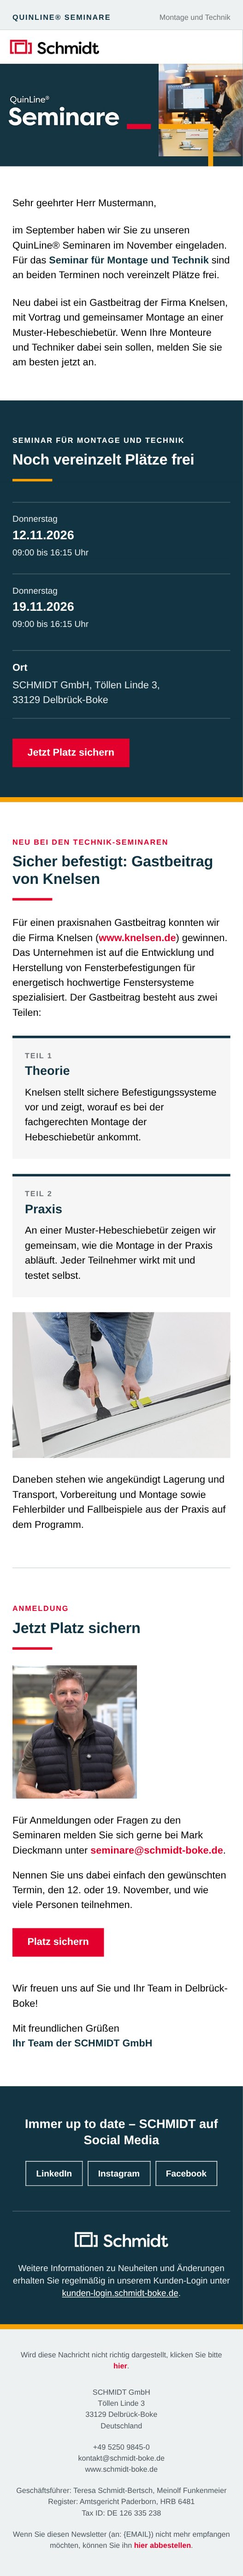
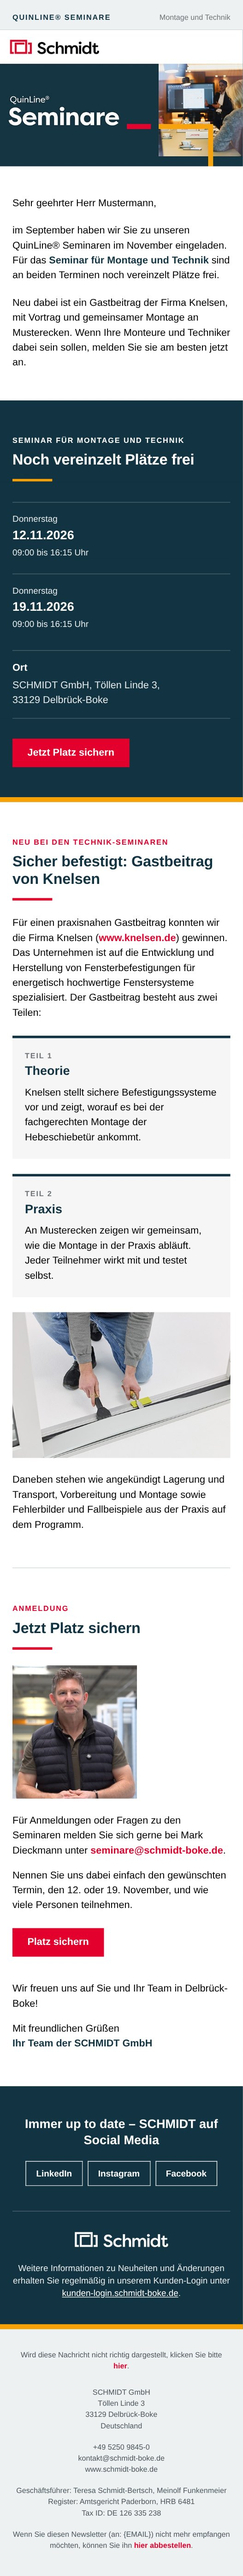
Newsletter Restplätze Seminar: Praxisteil an Musterecken statt Muster-Hebeschiebetür
Claude-Session: https://claude.ai/code/session_01VKPZfVgBXYvpnS8mXiiVA7

diff --git a/projects/newsletter-seminare-restplaetze/renders/cleverreach/newsletter-seminare-restplaetze-cleverreach.html b/projects/newsletter-seminare-restplaetze/renders/cleverreach/newsletter-seminare-restplaetze-cleverreach.html
@@ -76,7 +76,7 @@
 <tr><td class="px hy" lang="de" bgcolor="#ffffff" style="padding:0 48px; background:#ffffff; font-family:Arial,Helvetica,sans-serif; font-size:16px; line-height:24px; mso-line-height-rule:exactly; color:#000000;"><!--#html #-->
 <p style="margin:0 0 20px 0; font-family:Arial,Helvetica,sans-serif; font-size:16px; line-height:24px; mso-line-height-rule:exactly; color:#000000;">{SALUTATION[std:Sehr geehrte Damen und Herren][salutation:formal|de]} {LASTNAME},</p>
 <p style="margin:0 0 20px 0; font-family:Arial,Helvetica,sans-serif; font-size:16px; line-height:24px; mso-line-height-rule:exactly; color:#000000;">im September haben wir Sie zu unseren QuinLine® Seminaren im November eingeladen. Für das <strong style="color:#123442;">Seminar für Montage und Technik</strong> sind an beiden Terminen noch vereinzelt Plätze frei.</p>
-<p style="margin:0 0 0px 0; font-family:Arial,Helvetica,sans-serif; font-size:16px; line-height:24px; mso-line-height-rule:exactly; color:#000000;">Neu dabei ist ein Gastbeitrag der Firma Knelsen, mit Vortrag und gemeinsamer Montage an einer Muster-Hebeschiebetür. Wenn Ihre Monteure und Techniker dabei sein sollen, melden Sie sie am besten jetzt an.</p>
+<p style="margin:0 0 0px 0; font-family:Arial,Helvetica,sans-serif; font-size:16px; line-height:24px; mso-line-height-rule:exactly; color:#000000;">Neu dabei ist ein Gastbeitrag der Firma Knelsen, mit Vortrag und gemeinsamer Montage an Musterecken. Wenn Ihre Monteure und Techniker dabei sein sollen, melden Sie sie am besten jetzt an.</p>
 <!--#/html#--></td></tr>
 <tr><td height="48" bgcolor="#ffffff" style="padding:0; height:48px; background:#ffffff; font-size:1px; line-height:1px; mso-line-height-rule:exactly;">&nbsp;</td></tr>
 </table>
@@ -139,7 +139,7 @@
 <td class="stack" width="240" valign="top" bgcolor="#f6f6f6" style="padding:20px 20px 22px 20px; background:#f6f6f6; border-top:4px solid #123442; font-family:Arial,Helvetica,sans-serif; font-size:16px; line-height:24px; mso-line-height-rule:exactly; color:#000000;"><!--#html #-->
 <p style="margin:0 0 4px 0; font-family:Arial,Helvetica,sans-serif; font-size:12px; line-height:16px; mso-line-height-rule:exactly; color:#6e7478; font-weight:700; letter-spacing:1.4px; text-transform:uppercase;">Teil 2</p>
 <p style="margin:0 0 10px 0; font-family:Arial,Helvetica,sans-serif; font-size:20px; line-height:26px; mso-line-height-rule:exactly; color:#123442; font-weight:700;">Praxis</p>
-<p style="margin:0 0 0px 0; font-family:Arial,Helvetica,sans-serif; font-size:16px; line-height:24px; mso-line-height-rule:exactly; color:#000000;">An einer Muster-Hebeschiebetür zeigen wir gemeinsam, wie die Montage in der Praxis abläuft. Jeder Teilnehmer wirkt mit und testet selbst.</p>
+<p style="margin:0 0 0px 0; font-family:Arial,Helvetica,sans-serif; font-size:16px; line-height:24px; mso-line-height-rule:exactly; color:#000000;">An Musterecken zeigen wir gemeinsam, wie die Montage in der Praxis abläuft. Jeder Teilnehmer wirkt mit und testet selbst.</p>
 <!--#/html#--></td>
 </tr></table></td></tr>
 <tr><td height="24" bgcolor="#ffffff" style="padding:0; height:24px; background:#ffffff; font-size:1px; line-height:1px; mso-line-height-rule:exactly;">&nbsp;</td></tr>

diff --git a/projects/newsletter-seminare-restplaetze/renders/newsletter-seminare-restplaetze.html b/projects/newsletter-seminare-restplaetze/renders/newsletter-seminare-restplaetze.html
@@ -75,7 +75,7 @@
 <tr><td class="px hy" lang="de" bgcolor="#ffffff" style="padding:0 48px; background:#ffffff; font-family:Arial,Helvetica,sans-serif; font-size:16px; line-height:24px; mso-line-height-rule:exactly; color:#000000;">
 <p style="margin:0 0 20px 0; font-family:Arial,Helvetica,sans-serif; font-size:16px; line-height:24px; mso-line-height-rule:exactly; color:#000000;">{SALUTATION[std:Sehr geehrte Damen und Herren][salutation:formal|de]} {LASTNAME},</p>
 <p style="margin:0 0 20px 0; font-family:Arial,Helvetica,sans-serif; font-size:16px; line-height:24px; mso-line-height-rule:exactly; color:#000000;">im September haben wir Sie zu unseren QuinLine® Seminaren im November eingeladen. Für das <strong style="color:#123442;">Seminar für Montage und Technik</strong> sind an beiden Terminen noch vereinzelt Plätze frei.</p>
-<p style="margin:0 0 0px 0; font-family:Arial,Helvetica,sans-serif; font-size:16px; line-height:24px; mso-line-height-rule:exactly; color:#000000;">Neu dabei ist ein Gastbeitrag der Firma Knelsen, mit Vortrag und gemeinsamer Montage an einer Muster-Hebeschiebetür. Wenn Ihre Monteure und Techniker dabei sein sollen, melden Sie sie am besten jetzt an.</p>
+<p style="margin:0 0 0px 0; font-family:Arial,Helvetica,sans-serif; font-size:16px; line-height:24px; mso-line-height-rule:exactly; color:#000000;">Neu dabei ist ein Gastbeitrag der Firma Knelsen, mit Vortrag und gemeinsamer Montage an Musterecken. Wenn Ihre Monteure und Techniker dabei sein sollen, melden Sie sie am besten jetzt an.</p>
 </td></tr>
 <tr><td height="48" bgcolor="#ffffff" style="padding:0; height:48px; background:#ffffff; font-size:1px; line-height:1px; mso-line-height-rule:exactly;">&nbsp;</td></tr>
 </table>
@@ -136,7 +136,7 @@
 <td class="stack" width="240" valign="top" bgcolor="#f6f6f6" style="padding:20px 20px 22px 20px; background:#f6f6f6; border-top:4px solid #123442; font-family:Arial,Helvetica,sans-serif; font-size:16px; line-height:24px; mso-line-height-rule:exactly; color:#000000;">
 <p style="margin:0 0 4px 0; font-family:Arial,Helvetica,sans-serif; font-size:12px; line-height:16px; mso-line-height-rule:exactly; color:#6e7478; font-weight:700; letter-spacing:1.4px; text-transform:uppercase;">Teil 2</p>
 <p style="margin:0 0 10px 0; font-family:Arial,Helvetica,sans-serif; font-size:20px; line-height:26px; mso-line-height-rule:exactly; color:#123442; font-weight:700;">Praxis</p>
-<p style="margin:0 0 0px 0; font-family:Arial,Helvetica,sans-serif; font-size:16px; line-height:24px; mso-line-height-rule:exactly; color:#000000;">An einer Muster-Hebeschiebetür zeigen wir gemeinsam, wie die Montage in der Praxis abläuft. Jeder Teilnehmer wirkt mit und testet selbst.</p>
+<p style="margin:0 0 0px 0; font-family:Arial,Helvetica,sans-serif; font-size:16px; line-height:24px; mso-line-height-rule:exactly; color:#000000;">An Musterecken zeigen wir gemeinsam, wie die Montage in der Praxis abläuft. Jeder Teilnehmer wirkt mit und testet selbst.</p>
 </td>
 </tr></table></td></tr>
 <tr><td height="24" bgcolor="#ffffff" style="padding:0; height:24px; background:#ffffff; font-size:1px; line-height:1px; mso-line-height-rule:exactly;">&nbsp;</td></tr>
